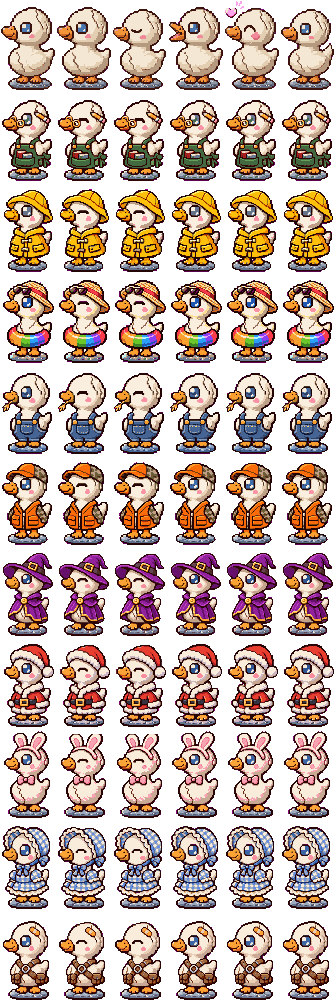
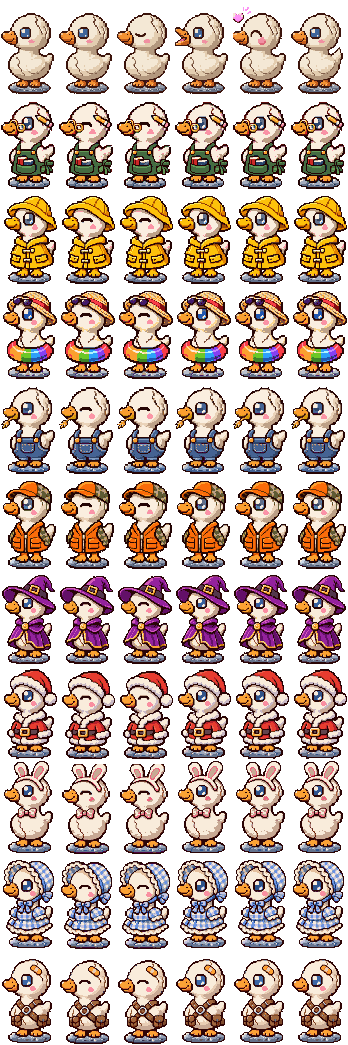
Goose Goose animation: same body in every frame (only eye, beak, heart and tail move); outfits drawn at exactly his size
Claude-Session: https://claude.ai/code/session_01TBSkio7k4jk7kM2MR7UMZN

diff --git a/goose.html b/goose.html
@@ -39,7 +39,7 @@ a { color: var(--cyan); text-underline-offset: 3px; }
 img { max-width: 100%; }
 .wrap { max-width: 1080px; margin: 0 auto; padding-left: max(16px, env(safe-area-inset-left, 0px)); padding-right: max(16px, env(safe-area-inset-right, 0px)); }
 .sr { position: absolute; width: 1px; height: 1px; overflow: hidden; clip: rect(0 0 0 0); white-space: nowrap; }
-.gs { position: relative; aspect-ratio: 56 / 91; image-rendering: pixelated; }
+.gs { position: relative; aspect-ratio: 58 / 95; image-rendering: pixelated; }
 .gs i { position: absolute; inset: 0; background-repeat: no-repeat; image-rendering: pixelated; }
 .gs .b { display: none; }
 /* goose_all.png: 6 columns of animation frames x 11 rows (row 0 = Goose Goose, rows 1-10 = outfits; col 0 idle, 1 blink/breathe ...) */
